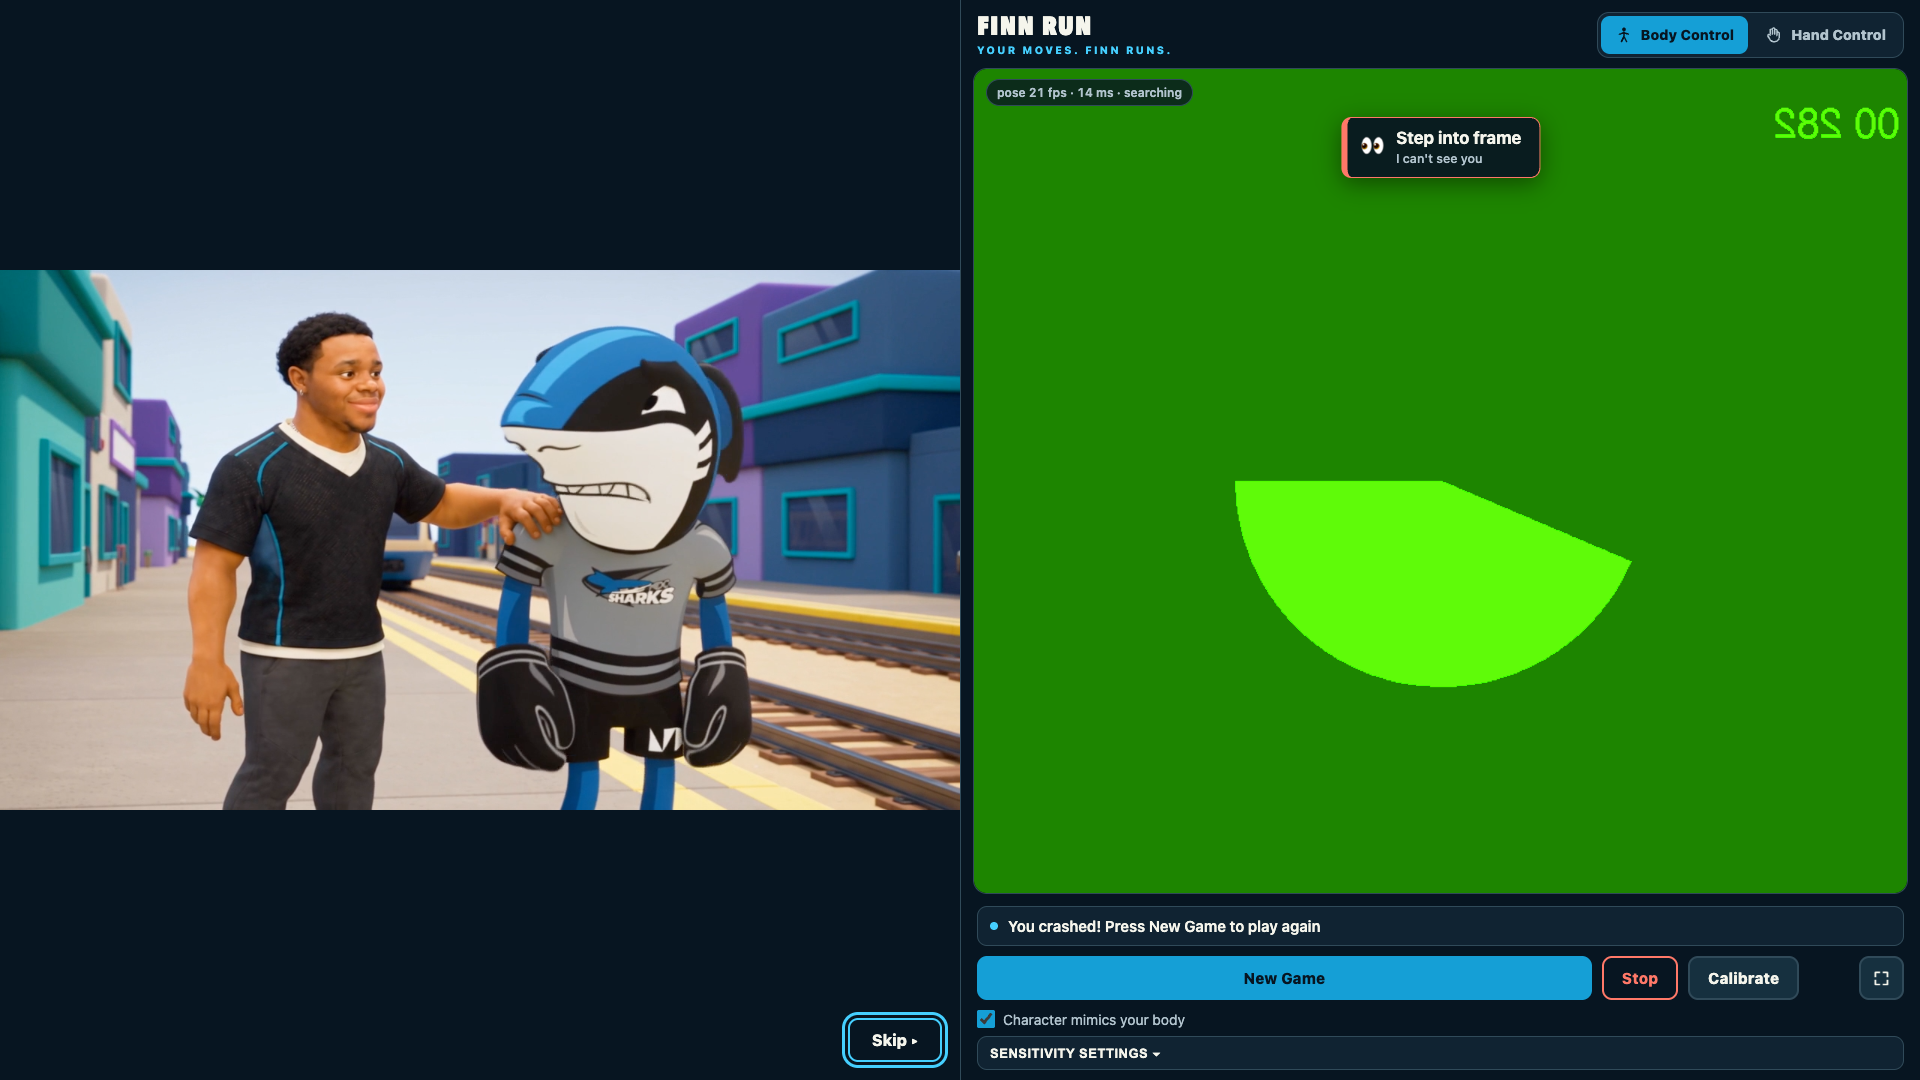
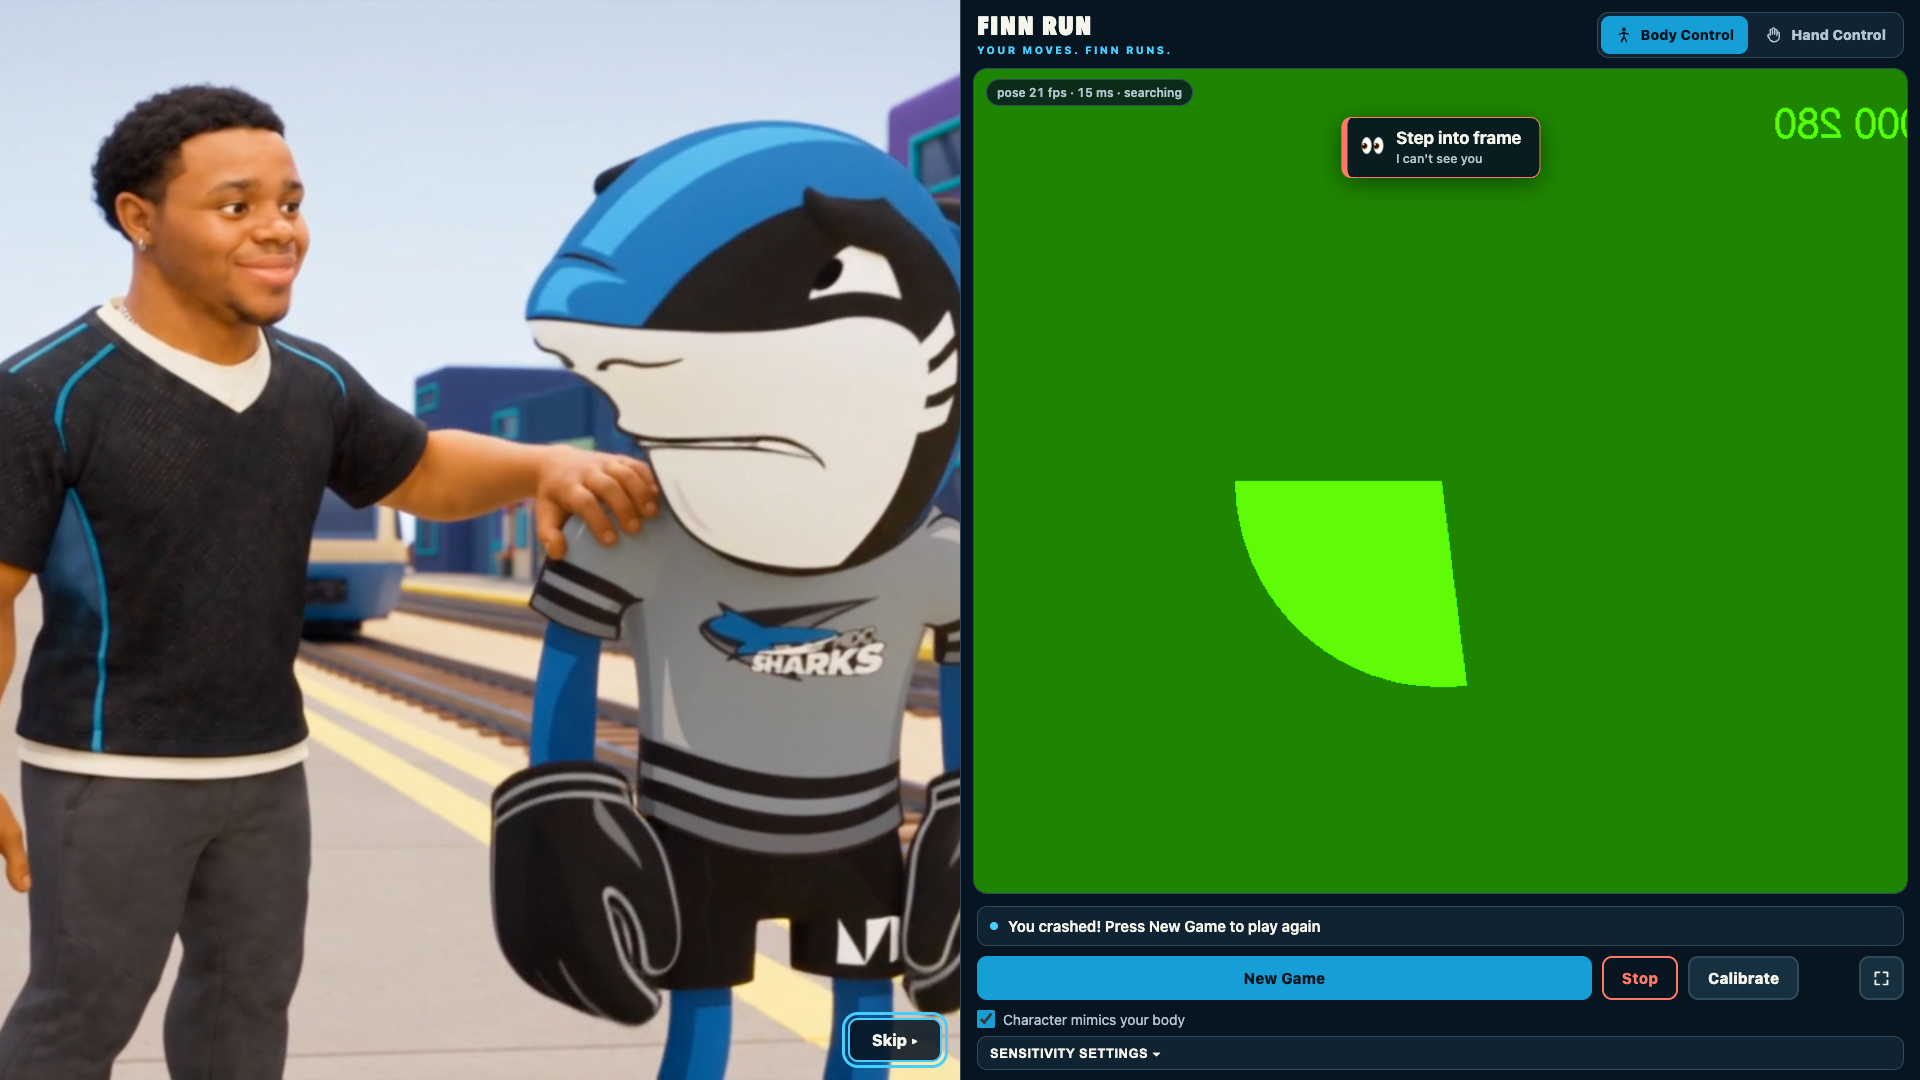
Catch cinematic fills the game pane (cover crop anchored on the faces) instead of letterboxing
Claude-Session: https://claude.ai/code/session_01M6fxJqxPYmFzdfwVAfyanA

diff --git a/subway-surfers-threejs/src/cv/index.ts b/subway-surfers-threejs/src/cv/index.ts
@@ -142,7 +142,10 @@ style.textContent = `
     background: #071521; display: none; align-items: center; justify-content: center;
 }
 #cv-catch.on { display: flex; }
-#cv-catch video { width: 100%; height: 100%; object-fit: contain; background: #071521; display: block; }
+/* Fill the game pane exactly like the game does (the pane is ~4:5, the clip
+   16:9): cover, anchored so both faces and the shoulder contact (x≈0.33 /
+   0.53 / 0.62 of the clip) stay inside the crop. */
+#cv-catch video { width: 100%; height: 100%; object-fit: cover; object-position: 48% 50%; background: #071521; display: block; }
 #cv-catch-skip {
     position: absolute; right: 18px; bottom: 18px; z-index: 2;
     padding: 12px 22px; font: 800 16px/1 system-ui, -apple-system, sans-serif;
